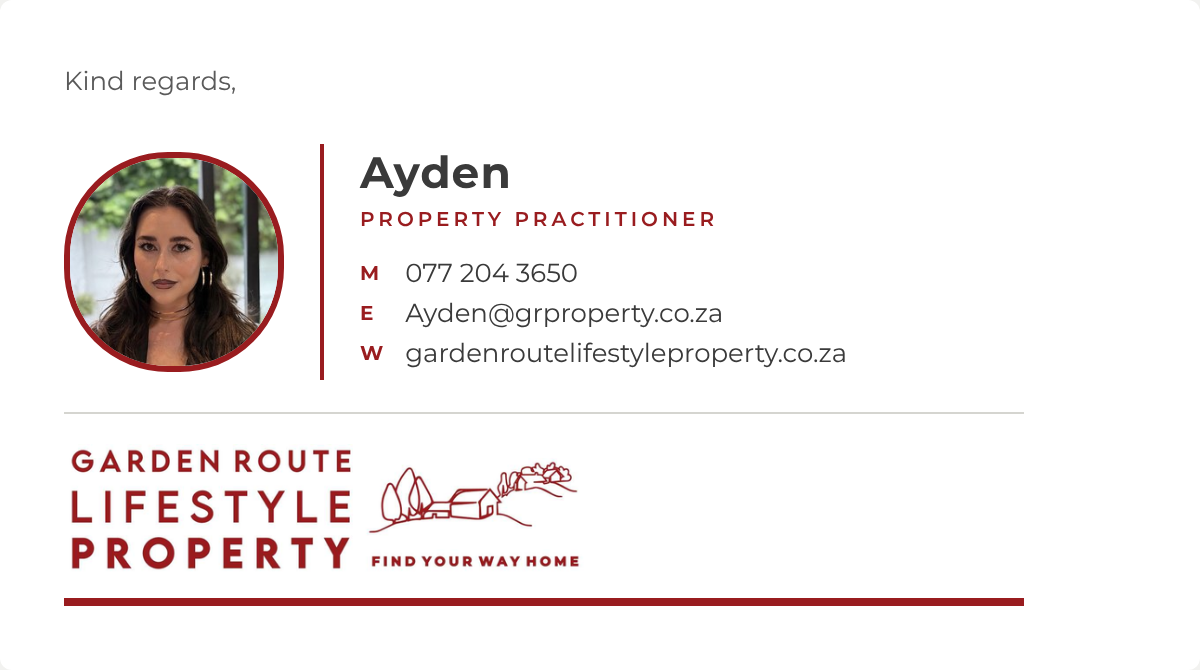
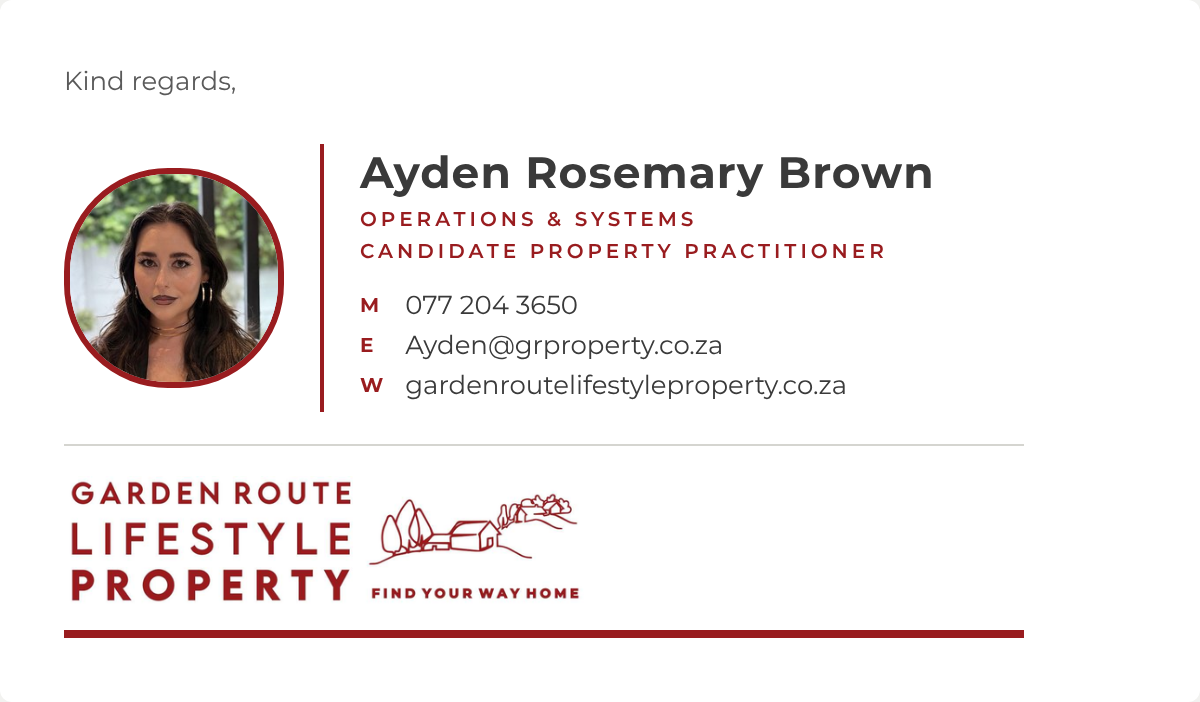
Update signature with full name and job titles
Claude-Session: https://claude.ai/code/session_018nYbKBuQFgDNMrNafDAuGR

diff --git a/email-signature/signature-embedded.html b/email-signature/signature-embedded.html
@@ -1,6 +1,6 @@
 <!doctype html>
 <html lang="en"><head><meta charset="utf-8"><meta name="viewport" content="width=device-width,initial-scale=1">
-<title>Ayden Email Signature</title>
+<title>Ayden Brown Signature</title>
 <link href="https://fonts.googleapis.com/css2?family=Montserrat:wght@400;600;700&display=swap" rel="stylesheet">
 <style>body{margin:0;background:#F2F2F0;font-family:Montserrat,Arial,sans-serif;color:#3A3A3A}
 .wrap{max-width:600px;margin:40px auto;padding:0 16px}.card{background:#fff;padding:32px;border-radius:6px;overflow-x:auto}
@@ -11,11 +11,11 @@
 <table cellpadding="0" cellspacing="0" border="0" role="presentation" style="border-collapse:collapse;font-family:Montserrat, 'Helvetica Neue', Arial, sans-serif;width:480px;max-width:480px;">
   <tr>
     <td style="padding:0 18px 0 0;vertical-align:middle;width:104px;">
[2 lines of base64/hex data omitted]
     </td>
     <td style="border-left:2px solid #991C1F;padding:2px 0 2px 18px;vertical-align:middle;">
-      <div style="font-family:Montserrat, 'Helvetica Neue', Arial, sans-serif;font-size:22px;font-weight:700;color:#3A3A3A;line-height:26px;letter-spacing:0.5px;">Ayden</div>
-      <div style="font-family:Montserrat, 'Helvetica Neue', Arial, sans-serif;font-size:10px;font-weight:600;color:#991C1F;letter-spacing:2px;text-transform:uppercase;line-height:16px;padding:2px 0 10px 0;">Property Practitioner</div>
+      <div style="font-family:Montserrat, 'Helvetica Neue', Arial, sans-serif;font-size:22px;font-weight:700;color:#3A3A3A;line-height:26px;letter-spacing:0.5px;">Ayden Rosemary Brown</div>
+      <div style="font-family:Montserrat, 'Helvetica Neue', Arial, sans-serif;font-size:10px;font-weight:600;color:#991C1F;letter-spacing:2px;text-transform:uppercase;line-height:16px;padding:2px 0 10px 0;">Operations &amp; Systems<br>Candidate Property Practitioner</div>
       <table cellpadding="0" cellspacing="0" border="0" role="presentation" style="border-collapse:collapse;">
           <tr>
             <td style="padding:0 10px 4px 0;font-family:Montserrat, 'Helvetica Neue', Arial, sans-serif;font-size:10px;font-weight:700;color:#991C1F;letter-spacing:1px;vertical-align:middle;">M</td>

diff --git a/email-signature/signature-hosted.html b/email-signature/signature-hosted.html
@@ -1,6 +1,6 @@
 <!doctype html>
 <html lang="en"><head><meta charset="utf-8"><meta name="viewport" content="width=device-width,initial-scale=1">
-<title>Ayden Email Signature</title>
+<title>Ayden Brown Signature</title>
 <link href="https://fonts.googleapis.com/css2?family=Montserrat:wght@400;600;700&display=swap" rel="stylesheet">
 <style>body{margin:0;background:#F2F2F0;font-family:Montserrat,Arial,sans-serif;color:#3A3A3A}
 .wrap{max-width:600px;margin:40px auto;padding:0 16px}.card{background:#fff;padding:32px;border-radius:6px;overflow-x:auto}
@@ -11,11 +11,11 @@
 <table cellpadding="0" cellspacing="0" border="0" role="presentation" style="border-collapse:collapse;font-family:Montserrat, 'Helvetica Neue', Arial, sans-serif;width:480px;max-width:480px;">
   <tr>
     <td style="padding:0 18px 0 0;vertical-align:middle;width:104px;">
-      <img src="https://gardenroutelifestyleproperty.co.za/email/ayden-headshot.jpg" width="104" height="104" alt="Ayden" style="display:block;width:104px;height:104px;border-radius:52px;border:3px solid #991C1F;">
+      <img src="https://gardenroutelifestyleproperty.co.za/email/ayden-headshot.jpg" width="104" height="104" alt="Ayden Rosemary Brown" style="display:block;width:104px;height:104px;border-radius:52px;border:3px solid #991C1F;">
     </td>
     <td style="border-left:2px solid #991C1F;padding:2px 0 2px 18px;vertical-align:middle;">
-      <div style="font-family:Montserrat, 'Helvetica Neue', Arial, sans-serif;font-size:22px;font-weight:700;color:#3A3A3A;line-height:26px;letter-spacing:0.5px;">Ayden</div>
-      <div style="font-family:Montserrat, 'Helvetica Neue', Arial, sans-serif;font-size:10px;font-weight:600;color:#991C1F;letter-spacing:2px;text-transform:uppercase;line-height:16px;padding:2px 0 10px 0;">Property Practitioner</div>
+      <div style="font-family:Montserrat, 'Helvetica Neue', Arial, sans-serif;font-size:22px;font-weight:700;color:#3A3A3A;line-height:26px;letter-spacing:0.5px;">Ayden Rosemary Brown</div>
+      <div style="font-family:Montserrat, 'Helvetica Neue', Arial, sans-serif;font-size:10px;font-weight:600;color:#991C1F;letter-spacing:2px;text-transform:uppercase;line-height:16px;padding:2px 0 10px 0;">Operations &amp; Systems<br>Candidate Property Practitioner</div>
       <table cellpadding="0" cellspacing="0" border="0" role="presentation" style="border-collapse:collapse;">
           <tr>
             <td style="padding:0 10px 4px 0;font-family:Montserrat, 'Helvetica Neue', Arial, sans-serif;font-size:10px;font-weight:700;color:#991C1F;letter-spacing:1px;vertical-align:middle;">M</td>
